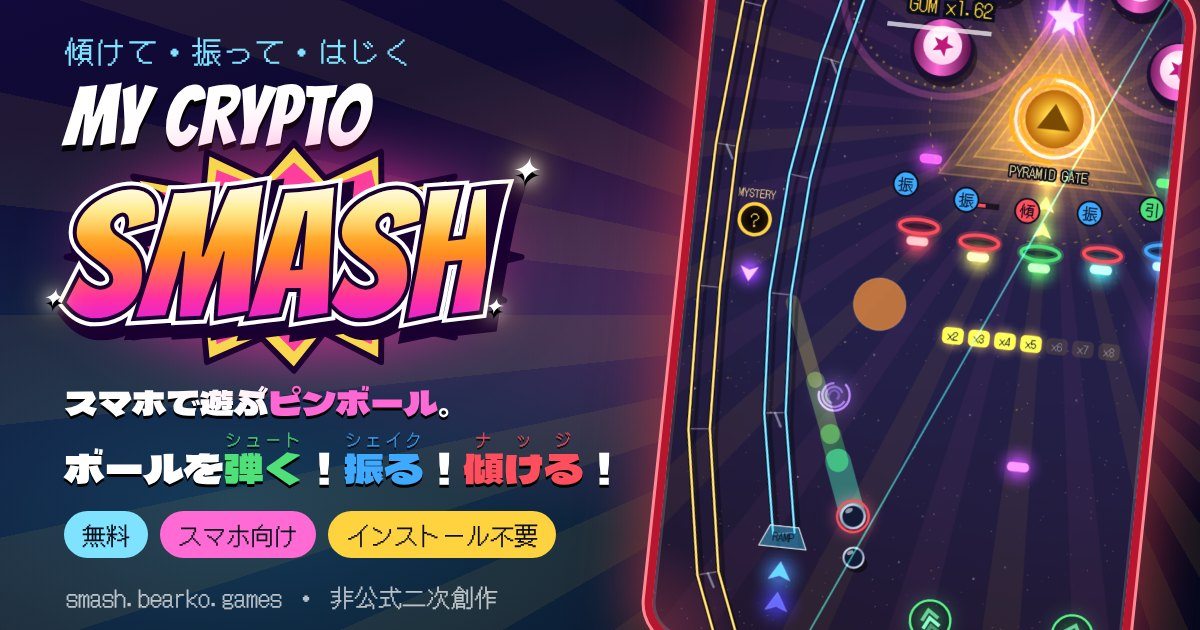
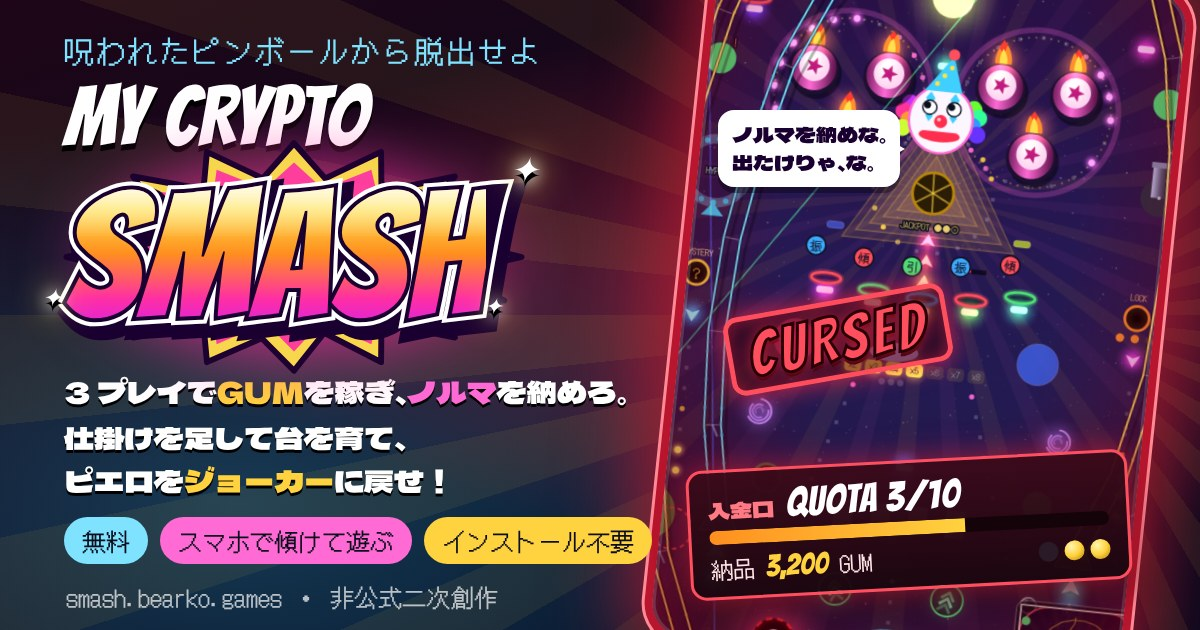
共有のサムネイルと説明を、呪われたピンボール・ノルマ・ピエロの遊びに合わせて作り直す
素材の絵を読みこまない状態のゲーム画面（図形のピエロの顔・呪いの穴・ヒートの炎）から作り、入金口のノルマの札と CURSED の印を重ねた。

Claude-Session: https://claude.ai/code/session_01QEYKKMqaKSbrG5R66XJakA

diff --git a/index.html b/index.html
@@ -4,25 +4,25 @@
     <meta charset="UTF-8" />
     <meta name="viewport" content="width=device-width, initial-scale=1.0, viewport-fit=cover, user-scalable=no" />
     <title>My Crypto Smash｜傾けて・振って・はじくピンボール</title>
-    <meta name="description" content="スマホを傾けて・振って・はじいて遊ぶピンボール×インクリメンタルゲーム。ヒーローの球でエネミーを倒して GUM を稼ぎ、入金口にノルマを納めよう。スキルツリーと台の改造で強くなる（My Crypto Heroes の非公式二次創作・無料・インストール不要）" />
+    <meta name="description" content="古いゲームコーナーに閉じこめられた。呪われたピンボールで GUM を稼ぎ、3 プレイ以内に入金口へノルマを納めろ。仕掛けを足して台を育て、台に宿るピエロをジョーカーに戻せば脱出の扉が開く。スマホを傾けて・振って・はじいて遊ぶピンボール（My Crypto Heroes の非公式二次創作・無料・インストール不要）" />
     <link rel="canonical" href="https://smash.bearko.games/" />
     <!-- リンクを共有したときのサムネイルと説明 -->
     <meta property="og:type" content="website" />
     <meta property="og:site_name" content="bearko.games" />
     <meta property="og:locale" content="ja_JP" />
     <meta property="og:url" content="https://smash.bearko.games/" />
-    <meta property="og:title" content="My Crypto Smash｜傾けて・振って・はじくピンボール" />
-    <meta property="og:description" content="スマホで遊ぶ豪華なピンボール。ボールを弾く！振る！傾ける！ ヒーローの球でエネミーを倒して GUM を集めるインクリメンタルゲーム（非公式二次創作・無料）" />
-    <meta property="og:image" content="https://smash.bearko.games/og.jpg?v=3" />
+    <meta property="og:title" content="My Crypto Smash｜呪われたピンボールから脱出せよ" />
+    <meta property="og:description" content="呪われたピンボールで GUM を稼ぎ、3 プレイ以内に入金口へノルマを納めろ。仕掛けを足して台を育て、ピエロをジョーカーに戻して脱出！ スマホを傾けて・振って・はじいて遊ぶ（非公式二次創作・無料）" />
+    <meta property="og:image" content="https://smash.bearko.games/og.jpg?v=4" />
     <meta property="og:image:type" content="image/jpeg" />
     <meta property="og:image:width" content="1200" />
     <meta property="og:image:height" content="630" />
-    <meta property="og:image:alt" content="My Crypto Smash：光るピンボール台と「傾けて・振って・はじく」のロゴ" />
+    <meta property="og:image:alt" content="My Crypto Smash：赤く光る呪われたピンボール台・ピエロの顔・入金口のノルマ「QUOTA 3/10」と「呪われたピンボールから脱出せよ」のロゴ" />
     <meta name="twitter:card" content="summary_large_image" />
-    <meta name="twitter:title" content="My Crypto Smash｜傾けて・振って・はじくピンボール" />
-    <meta name="twitter:description" content="スマホで遊ぶ豪華なピンボール。ボールを弾く！振る！傾ける！（非公式二次創作・無料）" />
-    <meta name="twitter:image" content="https://smash.bearko.games/og.jpg?v=3" />
-    <meta name="twitter:image:alt" content="My Crypto Smash：光るピンボール台と「傾けて・振って・はじく」のロゴ" />
+    <meta name="twitter:title" content="My Crypto Smash｜呪われたピンボールから脱出せよ" />
+    <meta name="twitter:description" content="呪われたピンボールで GUM を稼ぎ、ノルマを納めて脱出せよ。台を育てて、ピエロをジョーカーに（非公式二次創作・無料）" />
+    <meta name="twitter:image" content="https://smash.bearko.games/og.jpg?v=4" />
+    <meta name="twitter:image:alt" content="My Crypto Smash：赤く光る呪われたピンボール台・ピエロの顔・入金口のノルマ「QUOTA 3/10」と「呪われたピンボールから脱出せよ」のロゴ" />
     <link rel="icon" href="icon.svg" type="image/svg+xml" />
     <link rel="apple-touch-icon" href="apple-touch-icon.png" />
     <meta name="theme-color" content="#0b1020" />
